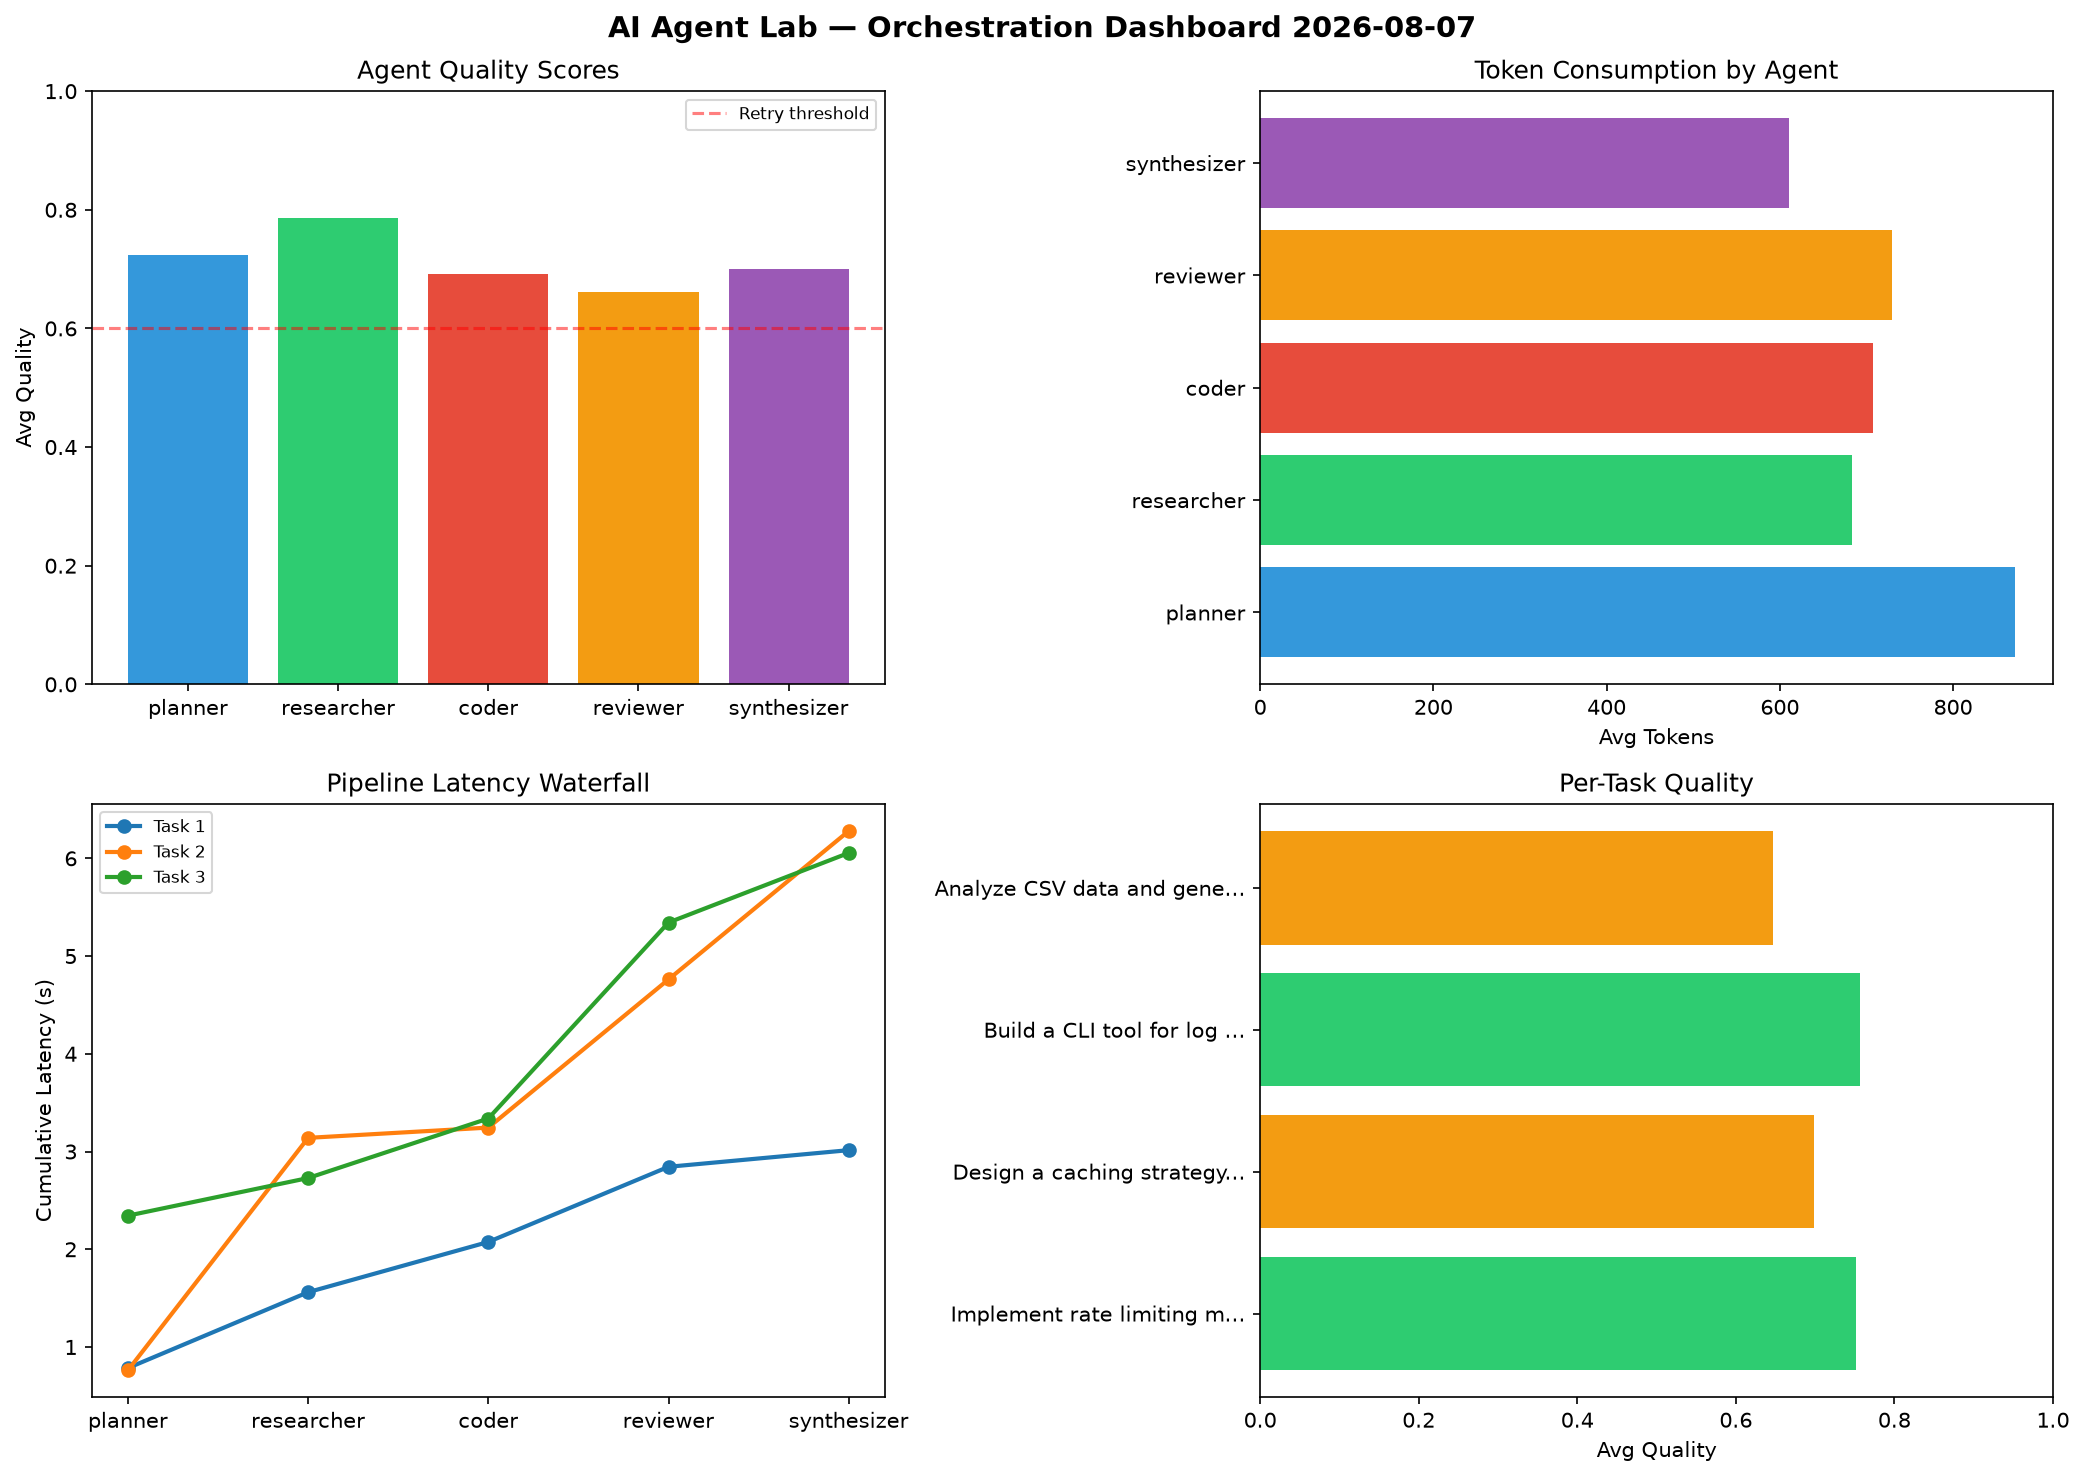
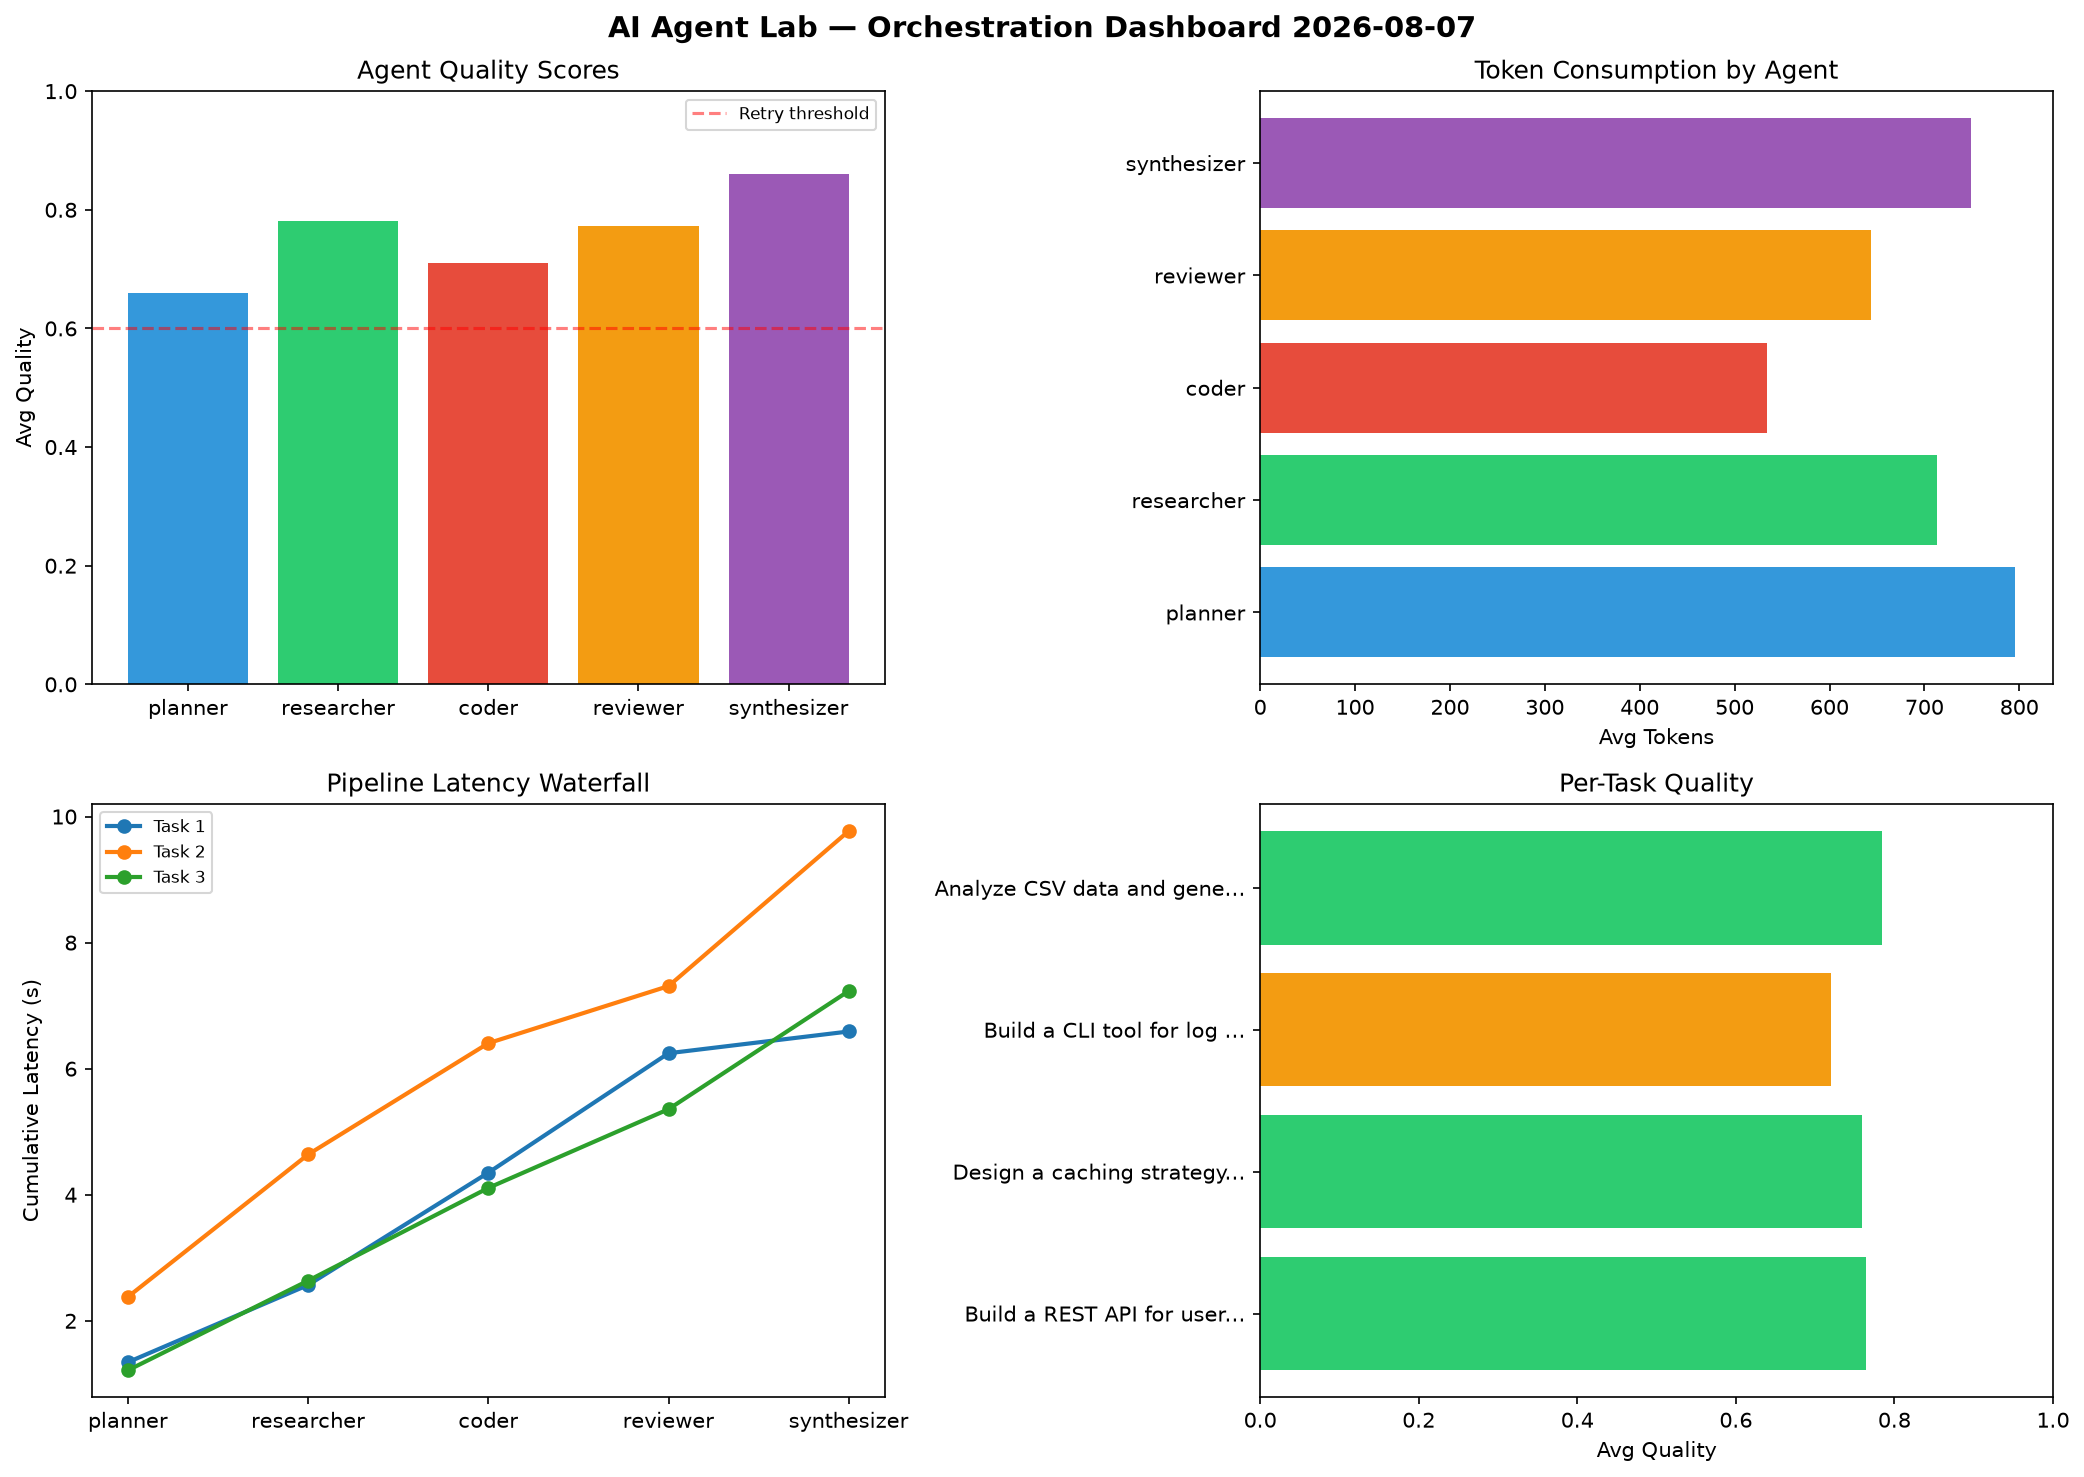
ai-agent-lab: orchestration run 2026-08-07T15:10

diff --git a/logs/2026-08-07.md b/logs/2026-08-07.md
@@ -1,6 +1,6 @@
 # AI Agent Lab — Orchestration Report 2026-08-07
 
-**Run ID:** `b28fc2f930` | **Tasks:** 4 | **Avg Quality:** 0.713
+**Run ID:** `2cf981cb2b` | **Tasks:** 4 | **Avg Quality:** 0.757
 
 ![Dashboard](2026-08-07_dashboard.png)
 
@@ -8,52 +8,52 @@
 
 | Metric | Value |
 |--------|-------|
-| avg_latency | 5.181 |
-| total_tokens | 14408 |
-| avg_quality | 0.713 |
+| avg_latency | 7.428 |
+| total_tokens | 13749 |
+| avg_quality | 0.757 |
 
 ## Delta vs Yesterday
 
 | Metric | Today | Yesterday | Change |
 |--------|-------|-----------|--------|
-| avg_latency | 5.181 | 6.11 | 📉 -15.2% |
-| total_tokens | 14408 | 13934 | 📈 3.4% |
-| avg_quality | 0.713 | 0.769 | 📉 -7.3% |
+| avg_latency | 7.428 | 6.11 | 📈 21.6% |
+| total_tokens | 13749 | 13934 | 📉 -1.3% |
+| avg_quality | 0.757 | 0.769 | 📉 -1.6% |
 
 ## Pipeline Results
 
-### Implement rate limiting middleware
+### Build a REST API for user authentication
 | Agent | Quality | Latency | Tokens | Status |
 |-------|---------|---------|--------|--------|
-| planner | 0.746 | 0.785s | 1013 | success |
-| researcher | 0.755 | 0.776s | 1073 | success |
-| coder | 0.932 | 0.514s | 1060 | success |
-| reviewer | 0.605 | 0.769s | 949 | success |
-| synthesizer | 0.715 | 0.17s | 907 | success |
+| planner | 0.822 | 1.343s | 899 | success |
+| researcher | 0.801 | 1.225s | 1049 | success |
+| coder | 0.734 | 1.782s | 475 | success |
+| reviewer | 0.605 | 1.895s | 811 | success |
+| synthesizer | 0.86 | 0.345s | 923 | success |
 
 ### Design a caching strategy for high-traffic endpoints
 | Agent | Quality | Latency | Tokens | Status |
 |-------|---------|---------|--------|--------|
-| planner | 0.503 | 0.762s | 874 | needs_retry |
-| researcher | 0.873 | 2.378s | 576 | success |
-| coder | 0.626 | 0.105s | 379 | success |
-| reviewer | 0.656 | 1.516s | 1050 | success |
-| synthesizer | 0.836 | 1.518s | 381 | success |
+| planner | 0.571 | 2.38s | 725 | needs_retry |
+| researcher | 0.58 | 2.259s | 514 | needs_retry |
+| coder | 0.789 | 1.765s | 505 | success |
+| reviewer | 0.896 | 0.906s | 595 | success |
+| synthesizer | 0.958 | 2.46s | 908 | success |
 
 ### Build a CLI tool for log analysis
 | Agent | Quality | Latency | Tokens | Status |
 |-------|---------|---------|--------|--------|
-| planner | 0.836 | 2.344s | 804 | success |
-| researcher | 0.894 | 0.385s | 402 | success |
-| coder | 0.511 | 0.609s | 669 | needs_retry |
-| reviewer | 0.862 | 2.005s | 318 | success |
-| synthesizer | 0.678 | 0.712s | 492 | success |
+| planner | 0.566 | 1.215s | 823 | needs_retry |
+| researcher | 0.875 | 1.422s | 758 | success |
+| coder | 0.631 | 1.471s | 475 | success |
+| reviewer | 0.752 | 1.249s | 679 | success |
+| synthesizer | 0.776 | 1.875s | 459 | success |
 
 ### Analyze CSV data and generate statistical summary
 | Agent | Quality | Latency | Tokens | Status |
 |-------|---------|---------|--------|--------|
-| planner | 0.813 | 1.883s | 796 | success |
-| researcher | 0.625 | 0.488s | 682 | success |
-| coder | 0.701 | 2.165s | 721 | success |
-| reviewer | 0.523 | 0.272s | 601 | needs_retry |
-| synthesizer | 0.571 | 0.568s | 661 | needs_retry |
+| planner | 0.677 | 0.178s | 736 | success |
+| researcher | 0.87 | 2.317s | 533 | success |
+| coder | 0.688 | 0.355s | 682 | success |
+| reviewer | 0.835 | 1.53s | 492 | success |
+| synthesizer | 0.85 | 1.739s | 708 | success |
